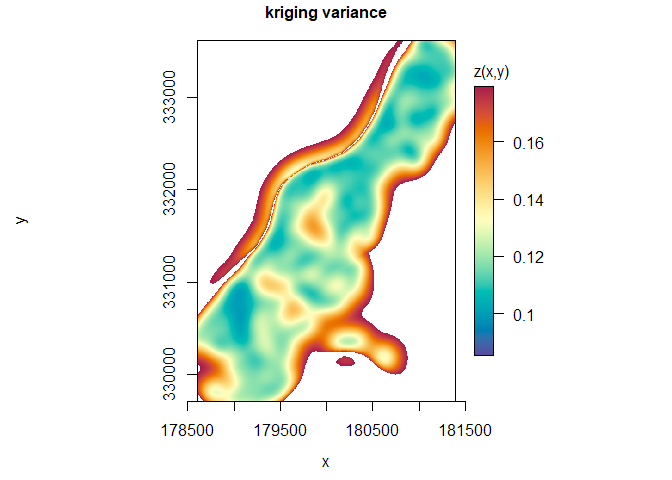
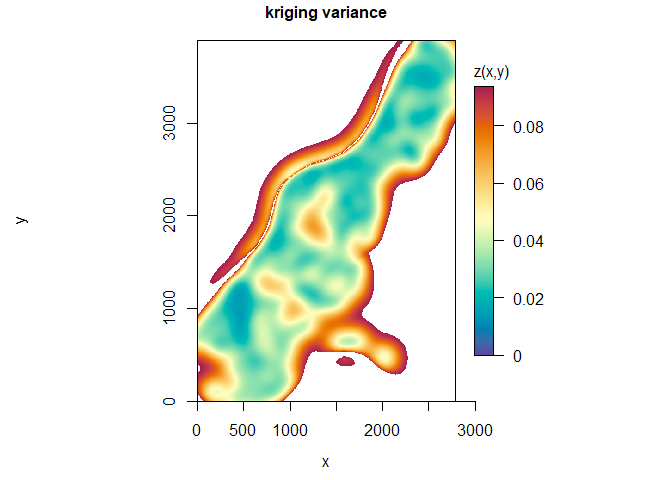
updated meuse vignette to use sk grids as inputs/outputs

diff --git a/vignettes/meuse_vignette.md b/vignettes/meuse_vignette.md
@@ -1,7 +1,7 @@
 meuse_vignette
 ================
 Dean Koch
-2022-10-12
+2022-10-13
 
 **Mitacs UYRW project**
 
@@ -196,10 +196,22 @@ g_meuse_sf = sk_coords(g_meuse, out='sf')
 d2r_result = units::drop_units(st_distance(g_meuse_sf, meuse[['river_line']]))
 
 # include both distance and its square root
-meuse_predictors = scale(cbind(d2r_result, sqrt(d2r_result)))
+X = g_meuse
+X[] = scale(cbind(d2r_result, sqrt(d2r_result)))
+plot(X, layer=1)
+```
 
+![](https://github.com/deankoch/snapKrig/blob/master/vignettes/meuse_vignette_files/figure-gfm/make_distances-1.png)<!-- -->
+
+``` r
+plot(X, layer=2)
+```
+
+![](https://github.com/deankoch/snapKrig/blob/master/vignettes/meuse_vignette_files/figure-gfm/make_distances-2.png)<!-- -->
+
+``` r
 # copy the subset of predictors at observed response locations
-X = matrix(meuse_predictors[is_obs,], nrow=n_obs)
+#X = matrix(meuse_predictors[is_obs,], nrow=n_obs)
 ```
 
 Fit the model with the linear predictor included. This is called
@@ -246,8 +258,7 @@ str(pars_UK)
 
 ``` r
 # GLS to estimate the (spatially varying) trend
-g_lm = g_empty
-g_lm[] = sk_GLS(g_meuse, pars_UK, X=meuse_predictors, out='z')
+g_lm = sk_GLS(g_meuse, pars_UK, X)
 plot(g_lm, main='estimated trend component')
 ```
 
@@ -268,8 +279,7 @@ variance, under suitable assumptions.
 
 ``` r
 # compute expectation (UK kriging predictor)
-g_pred = g_empty
-g_pred[] = sk_cmean(g_meuse, pars_UK, X=meuse_predictors)
+g_pred = sk_cmean(g_meuse, pars_UK, X)
 ```
 
 ``` r
@@ -285,13 +295,11 @@ to compute than the kriging predictor
 
 ``` r
 # prediction variance
-g_var = g_empty
-g_var[] = sk_cmean(g_meuse, pars_UK, X=meuse_predictors, out='v', quiet=TRUE)
+g_var = sk_cmean(g_meuse, pars_UK, X, what='v', quiet=TRUE)
 
 
 # plot
-zlim_var = c(pars_UK[['eps']], pars_UK[['eps']] + pars_UK[['psill']])
-sk_plot(g_var, main='kriging variance', zlim=zlim_var)
+plot(g_var, main='kriging variance', zlim=c(0, pars_UK[['psill']]))
 ```
 
 ![](https://github.com/deankoch/snapKrig/blob/master/vignettes/meuse_vignette_files/figure-gfm/variance_plot-1.png)<!-- -->
